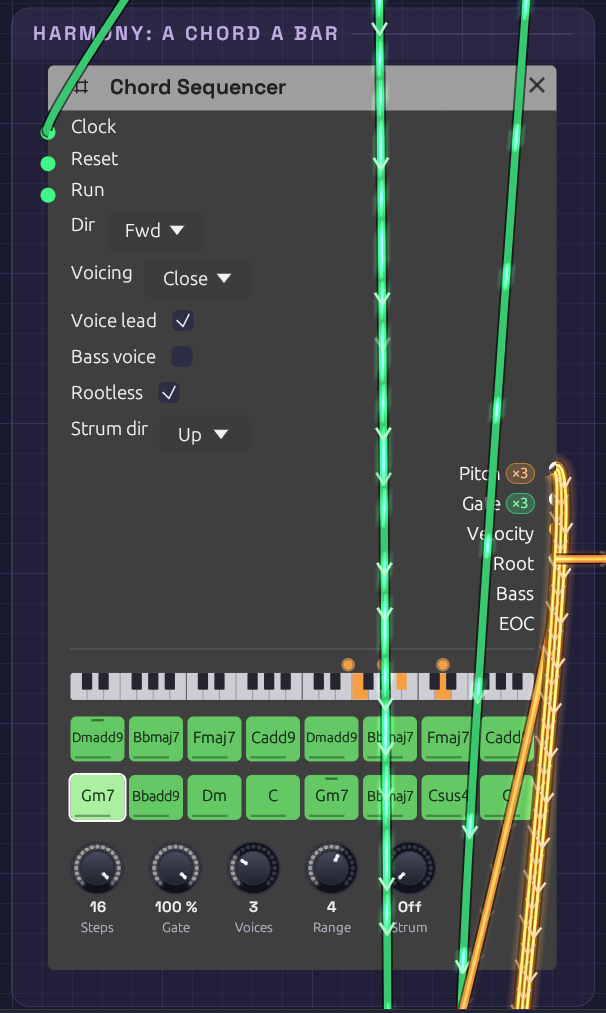
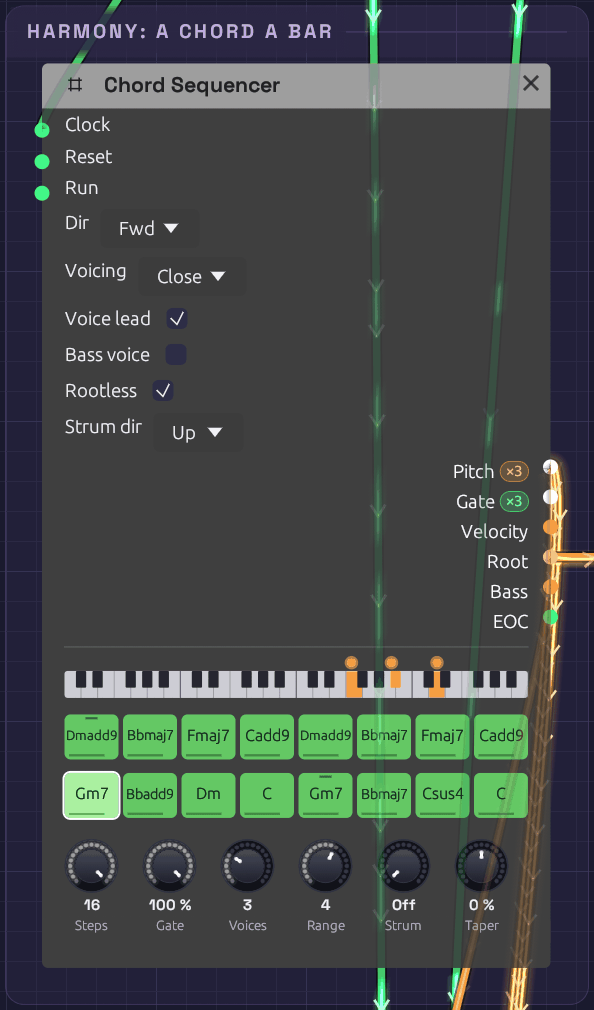
[Docs] recipe_images.py: re-shoot From One Sine's two mid-song pictures too
- A MOMENTS table of named shots: an image, a patch, a time to film at, a
  frame to crop to by title and the zoom the picture has always had, with
  an optional part of the frame and clicks in frame points
- A probe run finds where the view opens, so the camera can be aimed at
  the frame and the line shot's click lands on the motif's Edit tab C
- Both pictures re-shot and paletted (177 -> 53 KB, 458 -> 127 KB); the
  harmony one gains the Chord Sequencer's Taper knob it was missing
- --check covers them, and the images README no longer says they're shot
  by hand

Closes #172

diff --git a/tools/showcase/recipe_images.py b/tools/showcase/recipe_images.py
@@ -26,6 +26,13 @@ images no longer match the current build. A capture plays out the same way
 every time, so a picture that differs by more than a few stray pixels shows
 something that has changed.
 
+A few pictures show a moment in a song rather than a whole patch: they're
+listed in MOMENTS, each by its image name, and filmed the same way except
+that the song plays up to that moment, the view is aimed at one frame at
+the scale the picture has always had, and the still is cropped to that
+frame (or the part of it that's wanted) without resizing. Playing three
+minutes of song frame by frame takes a few minutes.
+
 Build into target/capture first, as for shots.py. --check exits 1 if any
 image is stale or missing.
 """
@@ -34,6 +41,7 @@ import json
 import subprocess
 import sys
 import tempfile
+from collections import namedtuple
 from pathlib import Path
 
 from PIL import Image, ImageChops
@@ -57,6 +65,24 @@ SCRIPT = "-{played} play\n-1.0 fit\n0.0 layout shot\n0.0 still shot\n0.1 end\n"
 # enough to show what it does: Held Vowels, frozen on its "ee"
 PLAYED = {"held-vowels": 13.0}
 
+# A picture of one moment in a song: `recipe-<image>.png` shows `frame`
+# (by title) of patches/<patch>.json once it has played `at` seconds, drawn
+# at `zoom` in a window at 1 pixel per point. `part` keeps only the frame's
+# top-left (width, height) in patch points, where all of it would be too
+# big to read; `clicks` are made a second or so before the still, at points
+# from the frame's top-left, for the face to show what's playing
+Moment = namedtuple("Moment", "patch at frame zoom part clicks")
+# From One Sine's 4-bar unit at 112 BPM: unit n starts at (n - 1) * UNIT
+UNIT = 16 * 60 / 112
+MOMENTS = {
+    # The Chord Sequencer playing Everything's chords
+    "from-one-sine-harmony": Moment("from-one-sine", 22 * UNIT, "Harmony: a chord a bar", 1.5, None, []),
+    # The motif's Step Sequencer at the Lift, two bars into the line's third
+    # pass: a click on its Edit tab C shows the pattern that's playing
+    "from-one-sine-line": Moment("from-one-sine", 14.5 * UNIT, "Motif, lead and memory", 1.75, (826, 568),
+                                 [(407, 424)]),
+}
+
 # How far apart two pictures may be before one is stale: a pixel counts as
 # changed past this much in any channel, and a picture as stale past this
 # fraction of changed pixels
@@ -64,14 +90,16 @@ CHANNEL_TOLERANCE = 24
 STALE_FRACTION = 0.002
 
 
-def film(patch, out, size, ppp):
-    """Films one still of the patch, fitted, and returns its layout."""
+def film(patch, out, size, ppp, script=None):
+    """Films one still of the patch, fitted unless a script says otherwise,
+    and returns its layout."""
+    text = script or SCRIPT.format(played=PLAYED.get(patch.stem, 2.0))
     script = out / "recipe.txt"
-    script.write_text(SCRIPT.format(played=PLAYED.get(patch.stem, 2.0)))
+    script.write_text(text)
     subprocess.run([str(EXE), str(patch), "--capture", str(script), "--out", str(out), "--fps", "10",
                     "--size", f"{size[0]}x{size[1]}", "--ppp", str(ppp)],
                    check=True, cwd=ROOT, stdout=subprocess.DEVNULL, stderr=subprocess.DEVNULL)
-    if not (out / "shot.ppm").exists():
+    if "still" in text and not (out / "shot.ppm").exists():
         raise RuntimeError(f"no still at {size[0]}x{size[1]}: is the window too big for the screen?")
     return json.loads((out / "shot.json").read_text())
 
@@ -121,6 +149,58 @@ def shoot(name, tmp):
     return image.quantize(256, method=Image.Quantize.MEDIANCUT, dither=Image.Dither.NONE)
 
 
+def moment_rect(lay, name):
+    """The part of a moment's frame its picture shows, in patch points."""
+    moment = MOMENTS[name]
+    rect = next((f["rect"] for f in lay["frames"] if f["title"] == moment.frame), None)
+    if rect is None:
+        raise RuntimeError(f"{name}: no frame titled {moment.frame!r} in {moment.patch}")
+    x0, y0, x1, y1 = rect
+    if moment.part:
+        x1, y1 = min(x1, x0 + moment.part[0]), min(y1, y0 + moment.part[1])
+    return x0, y0, x1, y1
+
+
+def shoot_moment(name, tmp):
+    """Films a moment of a song and returns its picture."""
+    moment = MOMENTS[name]
+    patch = ROOT / "patches" / f"{moment.patch}.json"
+    # A window with room for the frame at its zoom, toolbar and all
+    saved = next(f for f in json.loads(patch.read_text())["frames"] if f["title"] == moment.frame)
+    w, h = moment.part or saved["size"]
+    size = (max(1920, round(w * moment.zoom) + 200), max(1080, round(h * moment.zoom) + 200))
+    # Where the view opens, to aim the camera from
+    out = Path(tmp) / f"{name}-probe"
+    out.mkdir()
+    lay = film(patch, out, size, 1.0, "0.0 layout shot\n0.1 end\n")
+    x0, y0, x1, y1 = moment_rect(lay, name)
+    view = lay["view"]
+    # The camera scales the view about the editor's centre, then shifts it:
+    # this puts the frame's centre there, at the moment's zoom
+    centre = [(view["editor"][i] + view["editor"][i + 2]) / 2 for i in range(2)]
+    scale = moment.zoom / view["zoom"]
+    aim = [(x0 + x1) / 2, (y0 + y1) / 2]
+    origin = [centre[i] - aim[i] * moment.zoom for i in range(2)]
+    offset = [origin[i] - centre[i] - (view["origin"][i] - centre[i]) * scale for i in range(2)]
+    cues = [f"-{moment.at:.4f} play", f"-{moment.at:.4f} camera {offset[0]:.2f} {offset[1]:.2f} {scale:.5f} 0.05"]
+    for i, (cx, cy) in enumerate(moment.clicks):
+        t = -1.5 + 0.3 * i
+        x, y = origin[0] + (x0 + cx) * moment.zoom, origin[1] + (y0 + cy) * moment.zoom
+        cues += [f"{t - 0.3:.2f} move {x:.1f} {y:.1f} 0.2", f"{t:.2f} press", f"{t + 0.08:.2f} release"]
+    # Then the pointer off every face, so nothing shows a hover
+    cues += [f"-0.6 move {size[0] - 4} {size[1] - 4} 0.2", "0.0 layout shot", "0.0 still shot", "0.1 end"]
+    out = Path(tmp) / name
+    out.mkdir()
+    lay = film(patch, out, size, 1.0, "\n".join(cues) + "\n")
+    x0, y0, x1, y1 = moment_rect(lay, name)
+    view = lay["view"]
+    zoom, ppp, (ox, oy) = view["zoom"], view["ppp"], view["origin"]
+    box = [(ox + x0 * zoom - MARGIN) * ppp, (oy + y0 * zoom - MARGIN) * ppp,
+           (ox + x1 * zoom + MARGIN) * ppp, (oy + y1 * zoom + MARGIN) * ppp]
+    image = Image.open(out / "shot.ppm").convert("RGB").crop([round(v) for v in box])
+    return image.quantize(256, method=Image.Quantize.MEDIANCUT, dither=Image.Dither.NONE)
+
+
 def changed(new, path):
     """The fraction of pixels that differ from the picture at `path`, or 1
     if it's missing or a different size."""
@@ -137,21 +217,21 @@ def changed(new, path):
 def main(args):
     check = "--check" in args
     names = [a for a in args if not a.startswith("--")]
-    names = names or sorted(p.stem for p in (ROOT / "patches").glob("*.json") if (IMAGES / f"recipe-{p.stem}.png").exists())
+    names = names or sorted(p.stem for p in (ROOT / "patches").glob("*.json") if (IMAGES / f"recipe-{p.stem}.png").exists()) + list(MOMENTS)
     stale = []
     with tempfile.TemporaryDirectory() as tmp:
         for name in names:
             path = IMAGES / f"recipe-{name}.png"
-            image = shoot(name, tmp)
+            image = shoot_moment(name, tmp) if name in MOMENTS else shoot(name, tmp)
             if check:
                 fraction = changed(image, path)
                 verdict = "ok" if fraction <= STALE_FRACTION else ("missing" if not path.exists() else f"stale ({fraction:.1%} changed)")
-                print(f"{name:20} {verdict}")
+                print(f"{name:22} {verdict}")
                 if fraction > STALE_FRACTION:
                     stale.append(name)
             else:
                 image.save(path, optimize=True)
-                print(f"{name:20} {image.width}x{image.height}, {path.stat().st_size // 1024} KB")
+                print(f"{name:22} {image.width}x{image.height}, {path.stat().st_size // 1024} KB")
     if check and stale:
         print(f"\nRe-shoot with: python tools/showcase/recipe_images.py {' '.join(stale)}")
     return 1 if stale else 0

diff --git a/docs/src/images/README.md b/docs/src/images/README.md
@@ -28,7 +28,7 @@ Screenshots for the manual. This file isn't part of the book; it's a note for wh
 
 `python tools/showcase/recipe_images.py` films every example that has a `recipe-<page>.png` and writes it again (name examples to do only those, or a new one). It plays the patch for two seconds, frames it with the capture's `fit` cue, crops to its modules, frames and notes with a little grid around, and saves it 1594 px wide in a 256-colour palette. `--check` writes nothing and lists the pictures that no longer match the build. Build into `target/capture` first (see `tools/showcase/shots.py`).
 
-`recipe-from-one-sine-harmony.png` and `recipe-from-one-sine-line.png` show the song mid-performance, so they're shot by hand.
+`recipe-from-one-sine-harmony.png` and `recipe-from-one-sine-line.png` show the song mid-performance. They're listed in the script's `MOMENTS` table, and it re-shoots and checks them with the rest. Each one plays the song up to its moment, aims the view at one frame at the scale the picture has always had, and crops to that frame without resizing it. Playing three minutes of song frame by frame takes a few minutes.
 
 ## Re-shooting the interface pictures
 
